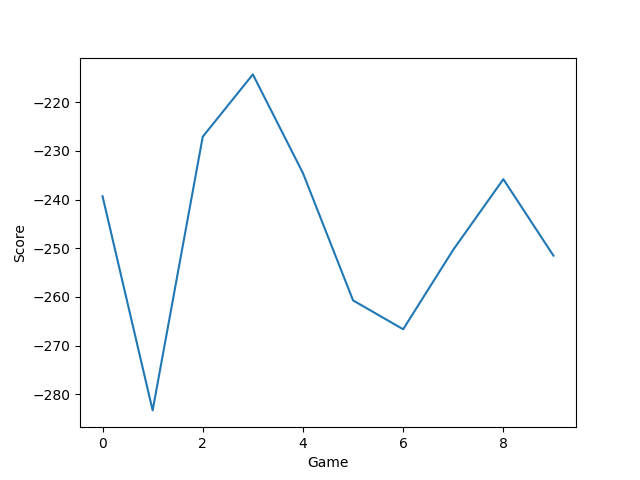
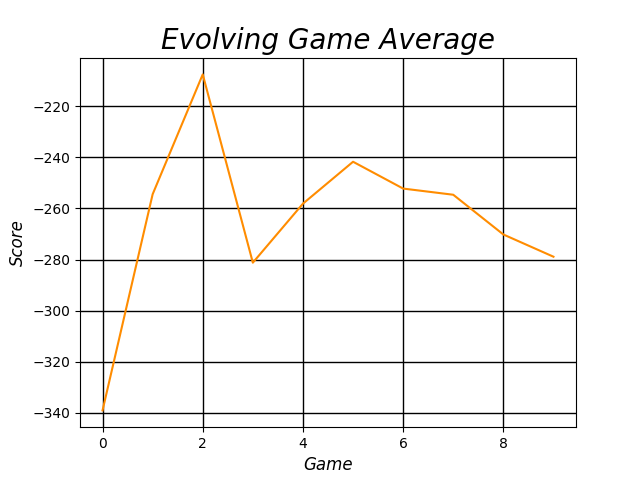
Updated files with the grid search

Changed region(s): [[0.0, 0.0625, 0.9062, 0.875], [0.4688, 0.9375, 0.5625, 1.0], [0.375, 0.1562, 0.4062, 0.1875]]

diff --git a/Code/Grid_search1.py b/Code/Grid_search1.py
@@ -1,0 +1,106 @@
+from ddpg import Agent
+import gym
+import numpy as np
+from utils import plotLearning, plotLoss, SaveToPickle, OpenPickle, plotScore
+from Train import train
+import matplotlib.pyplot as plt
+import pickle
+import os
+
+
+if __name__ == "__main__":
+
+    scores_mat = {}
+    average_scores_CV = []
+    parameters = {}
+    env = gym.make('LunarLanderContinuous-v2')
+
+    for j in range(10):
+        score_j = []
+        param_dist = {'alpha': float(np.random.uniform(0.00009, 0.000009, 1)),
+                      'beta': float(np.random.uniform(0.0009, 0.00009, 1)),
+                      'tau': float(np.random.uniform(0.009, 0.0007, 1)),
+                      'gamma': float(np.random.uniform(1, 0.95, 1))}
+        agent = Agent(alpha=param_dist.get('alpha'), beta=param_dist.get('beta'), input_dims=[8],
+                      tau=param_dist.get('tau'),
+                      env=env, gamma=param_dist.get('gamma'), batch_size=64, layer1_size=400, layer2_size=300,
+                      n_actions=2)
+        print('Iteration {} runs on following values: alpha={}, beta={}, tau={}, gamma={}'.format(j, param_dist.get(
+            'alpha'),
+                                                                                                  param_dist.get(
+                                                                                                      'beta'),
+                                                                                                  param_dist.get('tau'),
+                                                                                                  param_dist.get(
+                                                                                                      'gamma')))
+
+        parameters[j]= [param_dist.get('alpha'), param_dist.get('beta'), param_dist.get('tau'), param_dist.get('gamma')]
+
+        # agent.load_models()
+
+        n_episodes = 1000
+
+
+        np.random.seed(0)
+
+        score_history = {}
+        Loss_history = {}
+
+        for i in range(n_episodes):
+            obs = env.reset()
+            done = False
+            score = 0
+            t = 0
+
+            score, Loss = train(env, agent, obs, t=0, done=False, score=0)
+
+            score_j.append(score)
+
+            score_history[i] = score
+            Loss_history[i] = (np.mean(Loss), 1.96 * np.std(Loss)/np.sqrt(len(Loss))) # (mean, ci)
+
+
+            if i % 25 == 0:
+                agent.save_models()
+
+            print('episode ', i, 'score %.2f' % score,
+                  'trailing 100 games avg %.3f' % np.mean(list(score_history.values())[-100:]))
+
+
+        scores_mat[j] = score_j
+
+        # write loss dict as pickle
+        SaveToPickle(Loss_history, 'Loss', 'Loss_{}'.format(j))
+
+        # read pickle
+        LossHist = OpenPickle('Loss','Loss_{}'.format(j))
+
+
+        # write score to pickle
+        SaveToPickle(score_history,'Score', 'Score_{}'.format(j))
+
+        # read pickle
+        ScoreHist = OpenPickle('Score','Score_{}'.format(j))
+
+        #PLOT
+
+        # plot learning
+        filename = 'Plots\Average\Evolving_Average{}.png'.format(j)
+        plotLearning(ScoreHist, filename, window=100)
+
+        # plot loss
+        filename2 = 'Plots\Loss\Evolving_Loss{}.png'.format(j)
+        plotLoss(LossHist,filename2)
+
+        a =  2332
+
+        #Plot scores for each game in one CV
+
+        filename3 = 'Plots\Score\Game_Scores{}.png'.format(j)
+        plotScore(n_episodes,score_j,filename3)
+
+# write parameters to pickle
+SaveToPickle(parameters, 'Features', 'Parameters')
+
+
+SaveToPickle(scores_mat, 'Features', 'Matrix_scores')
+

diff --git a/Code/Grid_search.py b/Code/Grid_search.py
@@ -1,0 +1,89 @@
+
+from ddpg import Agent
+import gym
+import numpy as np
+from utils import plotLearning
+import matplotlib.pyplot as plt
+
+env = gym.make('LunarLanderContinuous-v2')
+scores_mat = []
+average_scores_CV = []
+parameters = []
+
+for j in range(2):
+    score_j = []
+    param_dist = {'alpha': float(np.random.uniform(0.00009, 0.000009, 1)),
+                  'beta':  float(np.random.uniform(0.0009, 0.00009, 1)),
+                  'tau': float(np.random.uniform(0.009, 0.0007, 1)),
+                  'gamma': float(np.random.uniform(1, 0.95, 1))}
+    agent = Agent(alpha=param_dist.get('alpha'), beta=param_dist.get('beta'), input_dims=[8], tau=param_dist.get('tau'),
+                  env=env, gamma = param_dist.get('gamma'), batch_size=64,  layer1_size=400, layer2_size=300, n_actions=2)
+    print('Iteration {} runs on following values: alpha={}, beta={}, tau={}, gamma={}'.format(j, param_dist.get('alpha'),
+                                                                                              param_dist.get('beta'),
+                                                                                              param_dist.get('tau'),
+                                                                                              param_dist.get('gamma')))
+    parameters.append([param_dist.get('alpha'), param_dist.get('beta'),param_dist.get('tau'),param_dist.get('gamma')])
+    #agent.load_models()
+    np.random.seed(0)
+
+    score_history = []
+
+    n_episodes = 10
+    for i in range(n_episodes):
+        obs = env.reset()
+        done = False
+        score = 0
+        t = 0
+        while not done:
+
+            # choose actions
+            act = agent.choose_action(obs)
+
+
+            if t is not 0:
+                if (10 % t) == 0:
+                    print(act)
+
+            # get reward from action, new state and check if state is terminal
+            new_state, reward, done, info = env.step(act)
+
+            # Store new information
+            agent.remember(obs, act, reward, new_state, int(done))
+
+            # Learn from minibatch
+            agent.learn()
+
+            # Cummulative reward
+            score += reward
+
+            # Store new state in obs
+            obs = new_state
+            #env.render()
+            if done:
+                print("Episode finished after {} timesteps".format(t))
+            t += 1
+
+        score_history.append(score)
+        score_j.append(score)
+
+        if i % 25 == 0:
+            agent.save_models()
+
+        print('episode ', i, 'score %.2f' % score,
+              'trailing 100 games avg %.3f' % np.mean(score_history[-100:]))
+        if i == 49:
+            scores_mat.append(score_j)
+    filename = 'LunarLander-alpha000025-beta00025-400-300.png'
+    plotLearning(score_history, filename, window=100)
+    a = 23234
+
+    plt.plot(np.arange(1, n_episodes + 1), score_j, color="#b20764")
+    plt.grid(color='black', linestyle='-', linewidth=1)
+    plt.title('Score progress', fontsize=20, fontstyle='oblique')
+    plt.ylabel('Score', fontsize=12, fontstyle='italic')
+    plt.xlabel('Game', fontsize=12, fontstyle='italic')
+    plt.show()
+    plt.clf()
+print(parameters)
+print(scores_mat)
+

diff --git a/Code/utils.py b/Code/utils.py
@@ -11,13 +11,17 @@ def plotLearning(scores, filename, x=None, window=5):
         running_avg[t] = np.mean(scores[max(0, t - window):(t + 1)])
     if x is None:
         x = [i for i in range(N)]
-    plt.ylabel('Score')
-    plt.xlabel('Game')
-    plt.plot(x, running_avg)
-    plt.savefig(filename)
+    plt.grid(color='black', linestyle='-', linewidth=1)
+    plt.title('Evolving Game Average', fontsize=20, fontstyle='oblique')
+    plt.ylabel('Score', fontsize=12, fontstyle='italic')
+    plt.xlabel('Game', fontsize=12, fontstyle='italic')
+    plt.plot(x, running_avg,color="#FF6600")
+    plt.savefig(filename,dpi=600)
+    plt.clf()
+    plt.close()
 
 
-def plotLoss(LossDict):
+def plotLoss(LossDict,filename2):
 
     fig, ax = plt.subplots()
 
@@ -27,11 +31,27 @@ def plotLoss(LossDict):
 
     y = np.asarray(y)
     ci = np.asarray(ci)
-    ax.plot(x, y)
+    ax.plot(x, y,color='#664cb2')
     ax.fill_between(x, (y - ci), (y + ci), color='b', alpha=.1)
+    plt.grid(color='black', linestyle='-', linewidth=1)
+    plt.title('Evolving Game Loss', fontsize=20, fontstyle='oblique')
+    plt.ylabel('Loss', fontsize=12, fontstyle='italic')
+    plt.xlabel('Game', fontsize=12, fontstyle='italic')
 
-    # TODO: give title etc.
-    plt.show()
+    plt.savefig(filename2,dpi=600)
+
+    plt.clf()
+    plt.close()
+
+def plotScore(n_episodes, score_j, filename3):
+    plt.grid(color='black', linestyle='-', linewidth=1)
+    plt.title('Score progress', fontsize=20, fontstyle='oblique')
+    plt.ylabel('Score', fontsize=12, fontstyle='italic')
+    plt.xlabel('Game', fontsize=12, fontstyle='italic')
+    plt.plot(np.arange(n_episodes), score_j, color="#b20764")
+    plt.savefig(filename3,dpi=600)
+    plt.clf()
+    plt.close()
 
 
 def SaveToPickle(Dict, directory, name):
